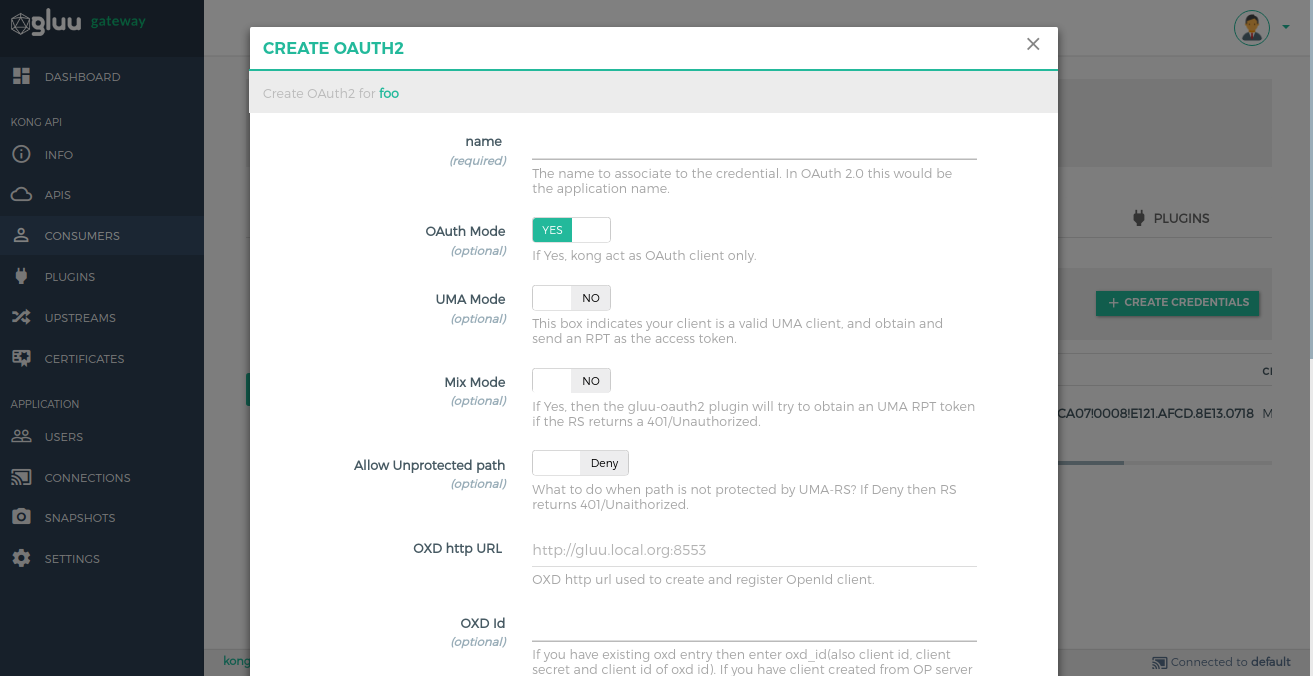
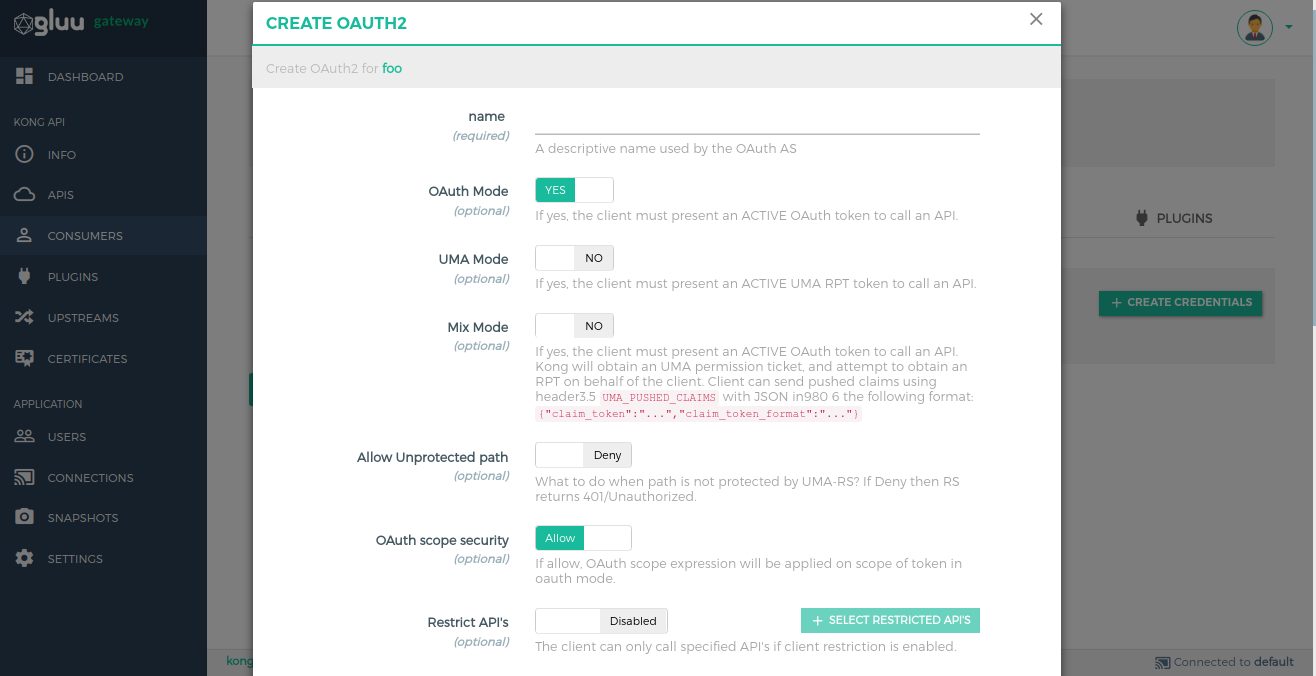
Add description for OAuth scope expression feature

diff --git a/3.1.3/source/plugin/gui.md b/3.1.3/source/plugin/gui.md
@@ -62,6 +62,9 @@ Below you can see the add OAuth credential form
 | UMA mode(semi-optional) | This indicates your client is a valid UMA client, and obtains and sends an RPT as the access token. |
 | Mix mode(semi-optional) | If Yes, then the gluu-oauth2 plugin will try to obtain an UMA RPT token if the RS returns 401/Unauthorized. |
 | Allow unprotected path(false) | It is used to allow or deny an unprotected path by UMA-RS. |
+| OAuth scope security(false) | If true, OAuth scope expression will be applied on scope of token in oauth mode. |
+| Restrict API's(false) | The client can only call specified API's if client restriction is enabled. You can choose list of APIs by using `+ SELECT RESTRICTED API` button. |
+| Show Consumer custom Id(true) | If true, then the plugin will set consumer custom id in legacy header otherwise not. |
 | oxd id(optional) | If you have an existing oxd entry, then enter the oxd_id (also client id, client secret and client id of oxd id). If you have a client created from the OP server, skip it and enter only the client_id and client_secret. |
 | client name(optional) | An optional string value for the client name. |
 | client id(optional) | You can use an existing client id. |
@@ -91,16 +94,21 @@ The first step is to add your API in Kong. Use the [API Section](../admin-gui.md
 
 Use the `SECURITY` link in the [API](../admin-gui.md#apis) section.
 
-![add_uma_rs](../img/3_add_uma_rs.png)
+![add_uma_rs](../img/3_add_oauth2_rs.png)
 
 !!! Note
     See all the attribute descriptions in the [Admin API](api.md#gluu-oauth-20-uma-rs-plugin) section. 
 
-You can register your resources using this section. It generates the `scope_expression` JSON. you can view and confirm your [protection document](#protection-document) by clicking the `VIEW RESOURCES JSON` button. 
+You can register your two type of resources using this section.
+ 
+ 1. [Protection document](#protection-document)
+ 2. [OAuth Scope Expression](#oauth-scope-expression)
 
-#### Protection document   
+#### Protection document
 
-Protection document - a JSON document which describes UMA protection in a declarative way and is based on the [uma-rs](https://github.com/GluuFederation/uma-rs) project.
+Protection document(UMA Resources) is a JSON document which describes UMA protection in a declarative way and is based on the [uma-rs](https://github.com/GluuFederation/uma-rs) project. Use `UMA Resources` button to open protection document section. 
+
+![UMA Resources](../img/3_4_add_uma_rs.png)
 
  - path - a relative path to protect (exact match)
  - httpMethods - GET, HEAD, POST, PUT, DELETE
@@ -193,6 +201,63 @@ You can see the below JSON by clicking on the `VIEW RESOURCES JSON` button.
   }
 ]
 ```
+
+#### OAuth Scope Expression
+
+OAuth Scope Expression is json expression, security for OAuth scopes. It checks the scope(from introspection of token) of the token with the configure OAuth json expression. Use `OAuth Scope Security` button to switch. 
+
+!!! Note
+    You can enable and disable oauth scope expression by using [OAuth credential's `OAuth scope security`](#create-an-oauth-credential) flag.
+
+![OAuth_Expression](../img/3_4_add_oauth_scope_expression.png)
+
+ - path - a relative path to protect (exact match)
+ - httpMethods - GET, HEAD, POST, PUT, DELETE
+ - scope - the OAuth scope required to access the given path
+ 
+Let's say we have API which we would like to protect:
+
+![Add_OAuth_Expression](../img/3_5_oauth_scopes.png)
+
+Use `VIEW RESOURCE JSON` button to see json expression.
+
+```
+[
+  {
+    "path": "/images",
+    "conditions": [
+      {
+        "httpMethods": [
+          "GET"
+        ],
+        "scope_expression": {
+          "and": [
+            "openid",
+            {
+              "or": [
+                "email",
+                "clientinfo"
+              ]
+            }
+          ]
+        }
+      }
+    ]
+  }
+]
+```
+
+At the runtime it matches the scope expression with token scopes. Inner expression execute first. It take one by one scope from expression and match with requested scope if it is exist then return true otherwise false.
+
+1. Let's assume token with `["clientinfo"]` scope only.
+    - `"email"` or `"clientinfo"` = `false` or `true` = `true`
+    - `"openid"` and `true` = `false` and `true` = `false`
+    - The result is `false` so request is not allowed
+
+2. Let's assume token with `["openid", "clientinfo"]` scopes.
+    - `"email"` or `"clientinfo"` = `false` or `true` = `true`
+    - `"openid"` and `true` = `true` and `true` = `true`
+    - The result is `true` so request is allowed
 
 The next step is to access and verify your API using the Kong proxy endpoint.
 

diff --git a/3.1.3/source/plugin/api.md b/3.1.3/source/plugin/api.md
@@ -165,6 +165,11 @@ RESPONSE :
 | oauth_mode(semi-optional) | | If True, Kong acts as an OAuth client only. |
 | uma_mode(semi-optional) | | This indicates your client is a valid UMA client, and obtains and sends an RPT as the access token. |
 | mix_mode(semi-optional) | | If Yes, then the gluu-oauth2 plugin will try to obtain an UMA RPT token if the RS returns  401/Unauthorized. |
+| allow_unprotected_path(optional) | false | It is used to allow or deny an unprotected path by UMA-RS. |
+| allow_oauth_scope_expression(optional) | false | If true, OAuth scope expression will be applied on scope of token in oauth mode. |
+| restrict_api(optional) | false | The client can only call specified API's if client restriction is enabled. |
+| restrict_api_list(optional) | | String comma separated api_ids. We must have to enable `restrict_api` to use this feature. |
+| show_consumer_custom_id(optional) | true | If true, then the plugin will set consumer custom id in legacy header otherwise not. |
 | oxd_id(optional) | | If you have an existing oxd entry, then enter the oxd_id (also client id, client secret and client id of oxd id). If you have a client created from the OP server, skip it and enter only the client_id and client_secret. |
 | client_name(optional) | kong_oauth2_bc_client | An optional string value for the client name. |
 | client_id(optional) | | You can use an existing client id. |
@@ -212,6 +217,7 @@ It allows you to protect your API (which is proxied by Kong) with [UMA](https://
  - uma_server_host - REQUIRED, an UMA Server which implements UMA 2.0 specification.
                      (For example [Gluu Server](https://www.gluu.org/gluu-server/overview/)). 
                      Check that the UMA implementation is up and running by visiting the `.well-known/uma2-configuration` endpoint.
+ - oauth_scope_expression - OAuth Scope Expression is json expression, security for OAuth scopes. It checks the scope(from introspection of token) of the token with the configure OAuth json expression. 
                
 #### Protection document   
 
@@ -343,6 +349,58 @@ You can also pass the scope-expression format.
   }
 ]
 ```
+
+#### OAuth Scope Expression
+
+OAuth Scope Expression is json expression, security for OAuth scopes. It checks the scope(from introspection of token) of the token with the configure OAuth json expression. 
+
+!!! Note
+    You can enable and disable oauth scope expression by using [OAuth credential's `OAuth scope security`](#create-an-oauth-credential) flag.
+
+ - path - a relative path to protect (exact match)
+ - httpMethods - GET, HEAD, POST, PUT, DELETE
+ - scope - the OAuth scope required to access the given path
+ 
+Let's say we have API which we would like to protect:
+
+```
+[
+  {
+    "path": "/images",
+    "conditions": [
+      {
+        "httpMethods": [
+          "GET"
+        ],
+        "scope_expression": {
+          "and": [
+            "openid",
+            {
+              "or": [
+                "email",
+                "clientinfo"
+              ]
+            }
+          ]
+        }
+      }
+    ]
+  }
+]
+```
+
+At the runtime it matches the scope expression with token scopes. Inner expression execute first. It take one by one scope from expression and match with requested scope if it is exist then return true otherwise false.
+
+1. Let's assume token with `["clientinfo"]` scope only.
+    - `"email"` or `"clientinfo"` = `false` or `true` = `true`
+    - `"openid"` and `true` = `false` and `true` = `false`
+    - The result is `false` so request is not allowed
+
+2. Let's assume token with `["openid", "clientinfo"]` scopes.
+    - `"email"` or `"clientinfo"` = `false` or `true` = `true`
+    - `"openid"` and `true` = `true` and `true` = `true`
+    - The result is `true` so request is allowed
+
 
 ### Protect your API with UMA
 
